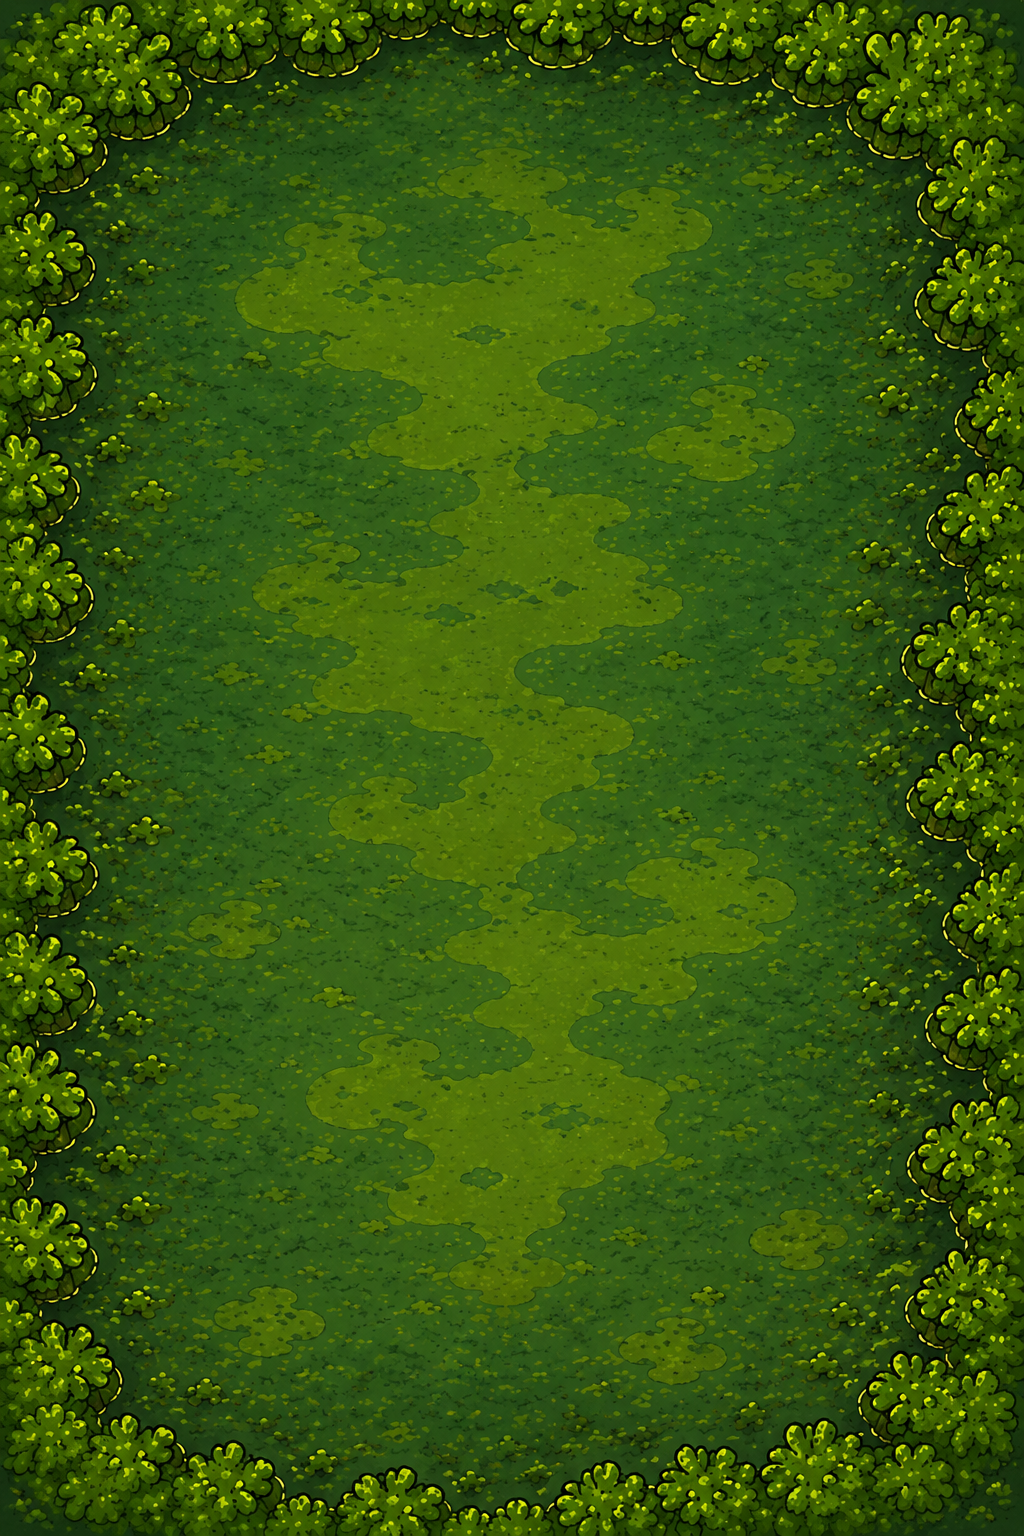
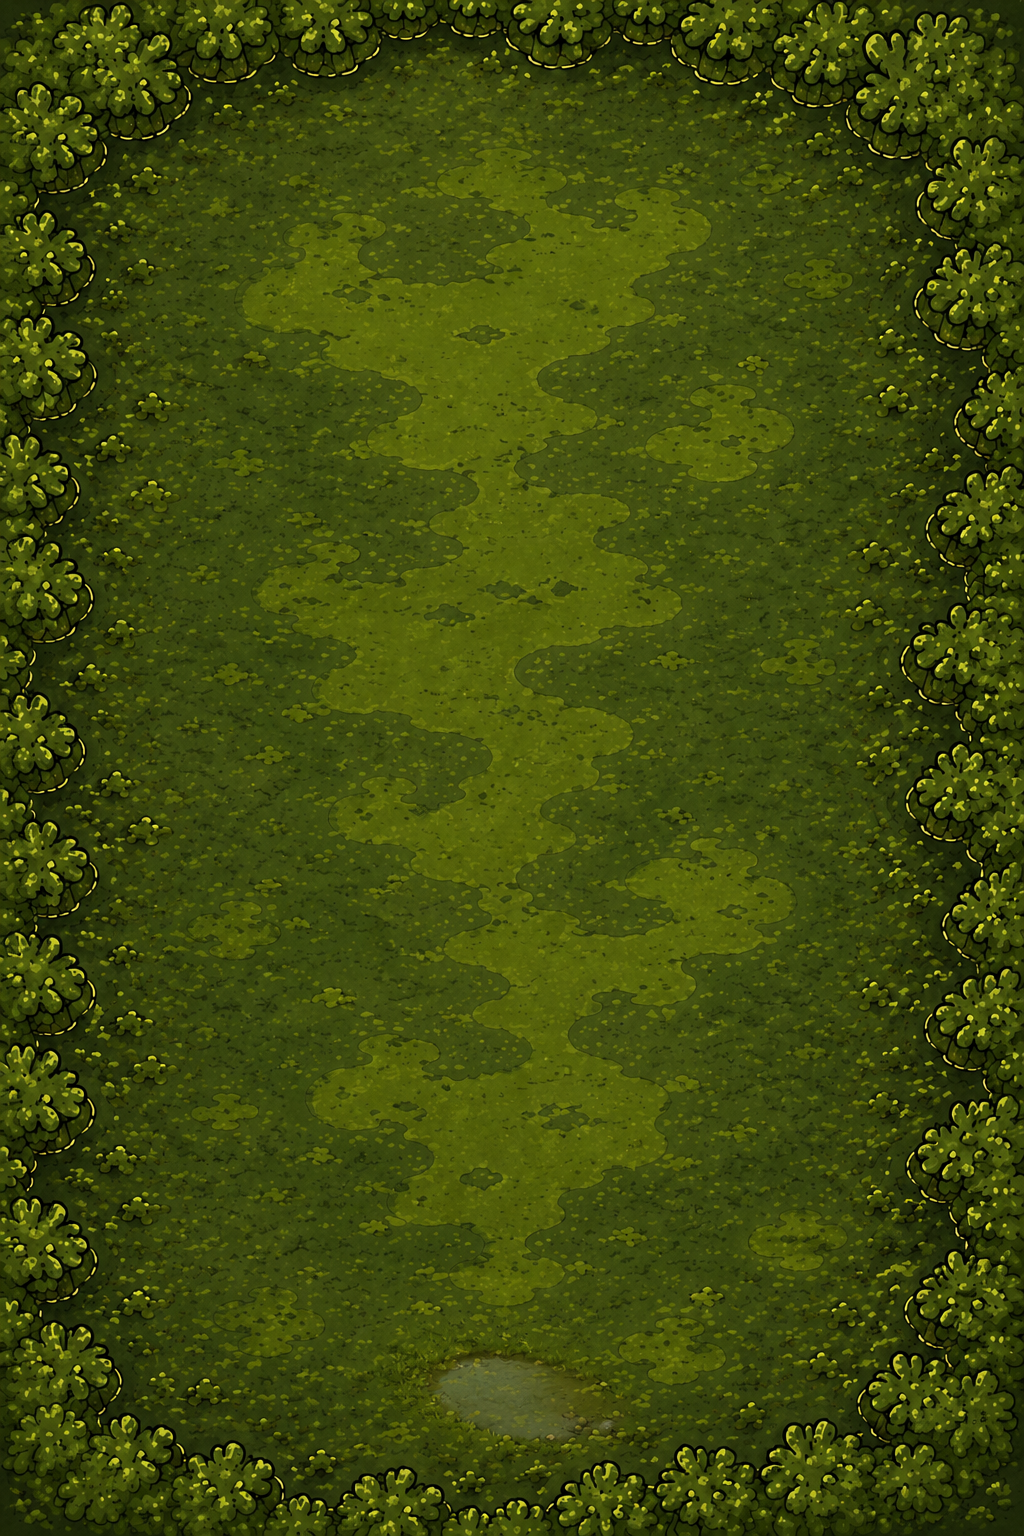
chore: persist local work — admin reset UI + gameState version migration + ApiError class + map0 update

diff --git a/admin/src/pages/UserDetailPage.tsx b/admin/src/pages/UserDetailPage.tsx
@@ -75,6 +75,7 @@ export function UserDetailPage() {
   const { id } = useParams<{ id: string }>()
   const queryClient = useQueryClient()
   const [cosmicExpanded, setCosmicExpanded] = useState(false)
+  const [confirmOpen, setConfirmOpen] = useState(false)
 
   const { data: user, isLoading, isError } = useQuery<AdminUserDetail>({
     queryKey: ['user', id],
@@ -110,6 +111,18 @@ export function UserDetailPage() {
     },
     onError: () => {
       toast({ title: 'Ban action failed', variant: 'destructive' })
+    },
+  })
+
+  const resetProgressMutation = useMutation({
+    mutationFn: () => api.post(`/admin/users/${id}/reset-progress`, {}),
+    onSuccess: () => {
+      toast({ title: 'Progress reset successfully' })
+      void queryClient.invalidateQueries({ queryKey: ['user', id] })
+      void queryClient.invalidateQueries({ queryKey: ['users'] })
+    },
+    onError: () => {
+      toast({ title: 'Reset failed', variant: 'destructive' })
     },
   })
 
@@ -352,8 +365,79 @@ export function UserDetailPage() {
               </div>
             </CardContent>
           </Card>
+
+          {/* Reset progress */}
+          <Card>
+            <CardHeader>
+              <CardTitle className="text-base">Reset Progress</CardTitle>
+            </CardHeader>
+            <CardContent>
+              <div className="flex flex-col gap-3">
+                <p className="text-sm text-muted-foreground">
+                  Wipes all game progress: gold, upgrades, frogs, discovered
+                  locations, serums, cosmic state, and pity counters. Preserves
+                  the Telegram link, username, ban status, and account creation
+                  date.
+                </p>
+                <div className="flex justify-end">
+                  <Button
+                    type="button"
+                    variant="destructive"
+                    size="sm"
+                    onClick={() => setConfirmOpen(true)}
+                  >
+                    Reset Progress
+                  </Button>
+                </div>
+              </div>
+            </CardContent>
+          </Card>
         </div>
       </div>
+
+      {confirmOpen && (
+        <div className="fixed inset-0 z-50 flex items-center justify-center bg-black/60">
+          <div className="bg-card border border-border rounded-lg p-6 max-w-md w-full mx-4 shadow-lg">
+            <h2 className="text-lg font-bold text-foreground mb-2">
+              Reset account progress?
+            </h2>
+            <p className="text-sm text-muted-foreground mb-4">
+              This will wipe all game progress for{' '}
+              <strong>{user.username ?? user.telegramId}</strong>: gold,
+              upgrades, frogs, discovered locations, cosmic state
+              (serums/essence), and pity counters. Telegram link, username, ban
+              status, and account history are preserved.
+              <br />
+              <br />
+              <strong className="text-destructive">
+                This action cannot be undone.
+              </strong>
+            </p>
+            <div className="flex gap-2 justify-end">
+              <Button
+                type="button"
+                variant="outline"
+                onClick={() => setConfirmOpen(false)}
+                disabled={resetProgressMutation.isPending}
+              >
+                Cancel
+              </Button>
+              <Button
+                type="button"
+                variant="destructive"
+                disabled={resetProgressMutation.isPending}
+                onClick={() => {
+                  resetProgressMutation.mutate(undefined, {
+                    onSettled: () => setConfirmOpen(false),
+                  })
+                }}
+              >
+                {resetProgressMutation.isPending ? 'Resetting...' : 'Yes, reset'}
+              </Button>
+            </div>
+          </div>
+        </div>
+      )}
     </div>
   )
 }

diff --git a/server/src/routes/gameState.ts b/server/src/routes/gameState.ts
@@ -62,6 +62,38 @@ export async function gameStateRoutes(app: FastifyInstance) {
     { preHandler: [app.authenticate] },
     async (request, reply) => {
       const body = request.body as Record<string, unknown>
+
+      // Optimistic concurrency: client must echo the version it last saw.
+      const clientVersion = body.version
+      if (
+        typeof clientVersion !== 'number' ||
+        !Number.isInteger(clientVersion) ||
+        clientVersion < 0
+      ) {
+        return reply.code(400).send({ error: 'version required (non-negative integer)' })
+      }
+
+      // Always fetch current — needed both for version check and idle-income clamp.
+      const current = await prisma.gameState.findUnique({
+        where: { userId: request.user.id },
+      })
+
+      if (!current) {
+        // No row yet — allow create-on-PUT only if client expected version 0.
+        if (clientVersion !== 0) {
+          return reply.code(409).send({ error: 'version mismatch' })
+        }
+      } else if (current.version !== clientVersion) {
+        return reply.code(409).send({
+          error: 'version mismatch',
+          currentState: {
+            ...current,
+            gold: current.gold.toString(),
+            version: current.version,
+          },
+        })
+      }
+
       const allowed = [
         'gold',
         'upgrades',
@@ -94,38 +126,34 @@ export async function gameStateRoutes(app: FastifyInstance) {
 
       // Idle income clamp: если новый gold превышает разумный максимум
       // (старый + max_rate * elapsed) — clamp'им к этому максимуму.
-      // Существующая state нужна для вычисления — fetch если ещё не получали.
-      if ('gold' in data && typeof data.gold === 'bigint') {
-        const current = await prisma.gameState.findUnique({
-          where: { userId: request.user.id },
-        })
-        if (current) {
-          const elapsedMs = Date.now() - current.lastSessionAt.getTime()
-          const elapsedSec = BigInt(Math.max(0, Math.floor(elapsedMs / 1000)))
-          const maxGain = MAX_GOLD_PER_SEC * elapsedSec
-          const maxAllowed = current.gold + maxGain
-          if (data.gold > maxAllowed) {
-            app.log.warn({
-              userId: request.user.id,
-              oldGold: current.gold.toString(),
-              attempted: data.gold.toString(),
-              clamped: maxAllowed.toString(),
-              elapsedSec: elapsedSec.toString(),
-            }, 'gold clamp: idle income exceeded')
-            data.gold = maxAllowed
-          }
+      // Reuse `current` fetched above for the version check.
+      if ('gold' in data && typeof data.gold === 'bigint' && current) {
+        const elapsedMs = Date.now() - current.lastSessionAt.getTime()
+        const elapsedSec = BigInt(Math.max(0, Math.floor(elapsedMs / 1000)))
+        const maxGain = MAX_GOLD_PER_SEC * elapsedSec
+        const maxAllowed = current.gold + maxGain
+        if (data.gold > maxAllowed) {
+          app.log.warn({
+            userId: request.user.id,
+            oldGold: current.gold.toString(),
+            attempted: data.gold.toString(),
+            clamped: maxAllowed.toString(),
+            elapsedSec: elapsedSec.toString(),
+          }, 'gold clamp: idle income exceeded')
+          data.gold = maxAllowed
         }
       }
 
       const state = await prisma.gameState.upsert({
         where: { userId: request.user.id },
-        update: data,
+        update: { ...data, version: { increment: 1 } },
         create: { userId: request.user.id, ...data },
       })
 
       return {
         ...state,
         gold: state.gold.toString(),
+        version: state.version,
       }
     },
   )

diff --git a/client/src/api/client.ts b/client/src/api/client.ts
@@ -64,14 +64,29 @@ export async function apiFetch(
   return res
 }
 
+export class ApiError extends Error {
+  status: number
+  body: string
+  constructor(status: number, body: string, message: string) {
+    super(message)
+    this.name = 'ApiError'
+    this.status = status
+    this.body = body
+  }
+}
+
 export async function apiJson<T>(
   path: string,
   options: RequestInit = {},
 ): Promise<T> {
   const res = await apiFetch(path, options)
   if (!res.ok) {
-    const err = await res.text().catch(() => '')
-    throw new Error(`API ${res.status}: ${err || res.statusText}`)
+    const body = await res.text().catch(() => '')
+    throw new ApiError(
+      res.status,
+      body,
+      `API ${res.status}: ${body || res.statusText}`,
+    )
   }
   return (await res.json()) as T
 }

diff --git a/client/src/api/gameState.ts b/client/src/api/gameState.ts
@@ -17,6 +17,7 @@ export interface ServerGameState {
   boxOpenCount: number
   cosmic: unknown | null
   incomePerSec: number
+  version: number
   // Server-computed offline income при boot (только в GET response):
   offlineIncome?: string // BigInt-string
   offlineMs?: number